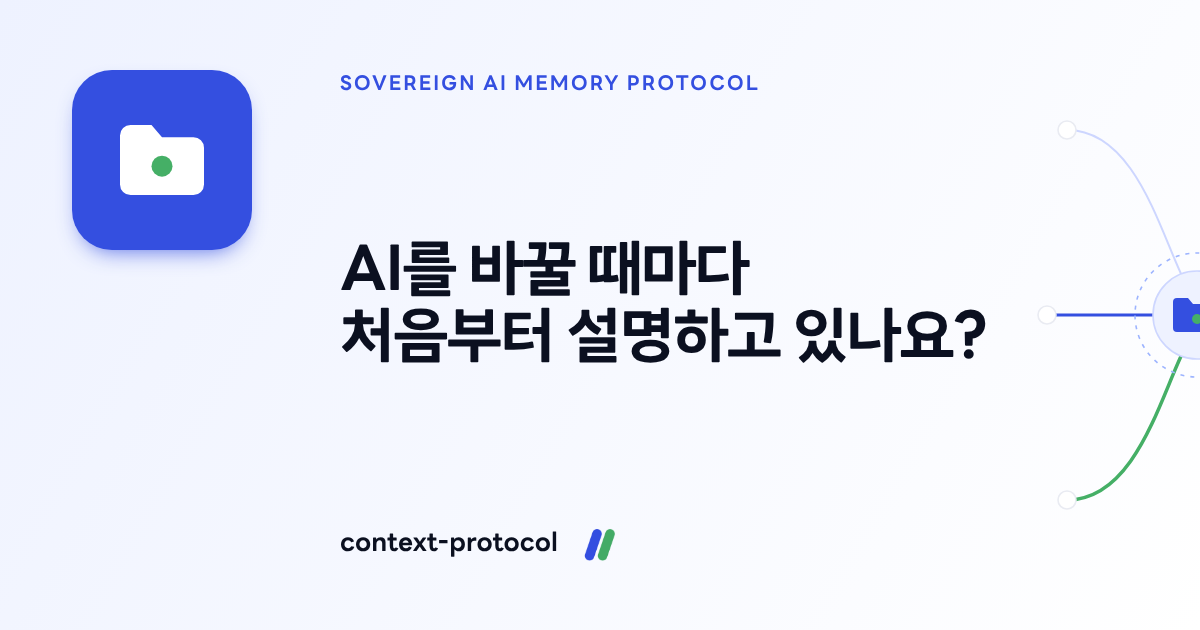
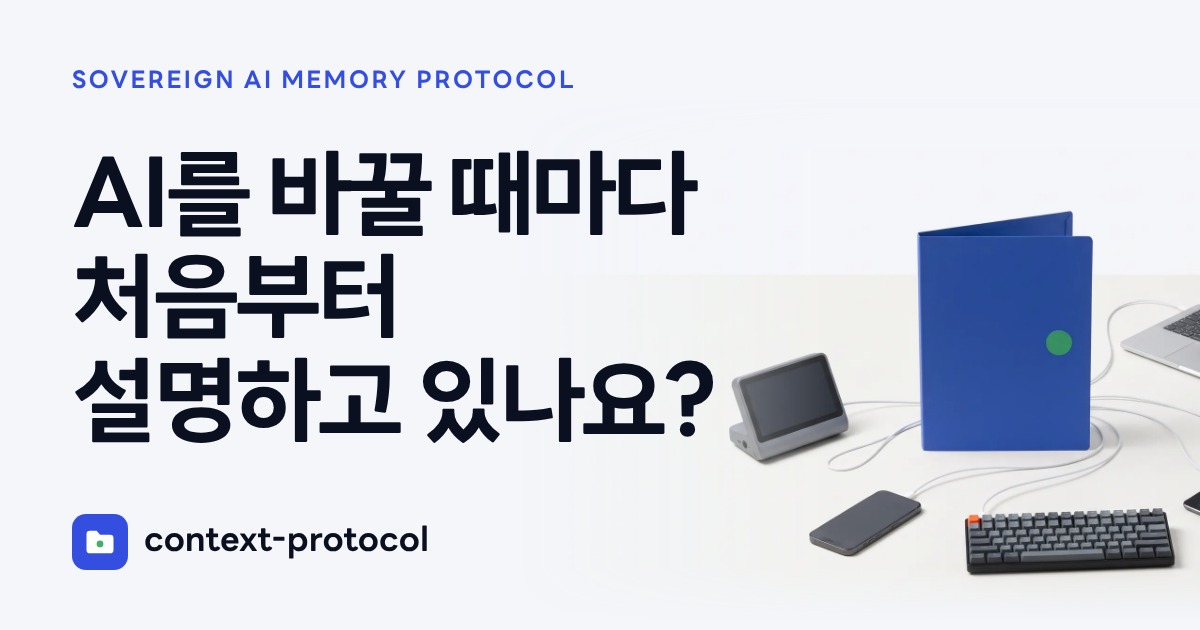
site: og 이미지를 썸네일에서도 읽히게 다시 만듦
Claude-Session: https://claude.ai/code/session_01GbwQAmrjeip5ADpbh5uN5D

Changed region(s): [[0.0308, 0.0905, 1.0, 0.9349], [0.0617, 0.8143, 0.5242, 0.9048], [0.6783, 0.7841, 0.7708, 0.9048]]

diff --git a/site-src/src/og.html b/site-src/src/og.html
@@ -1,39 +1,21 @@
 <!DOCTYPE html>
 <html lang="ko"><head><meta charset="utf-8"><link rel="stylesheet" href="style.css">
 <style>
-html,body{width:1200px;height:630px;margin:0;overflow:hidden;background:#fff}
-.og{position:relative;width:1200px;height:630px;background:var(--gradient-soft);display:grid;grid-template-columns:1fr 380px}
-.og .r{position:relative}
-.og .r svg{position:absolute;inset:40px 40px 40px 0;width:340px;height:550px}
-.og .l{padding:70px 40px 60px 340px;display:flex;flex-direction:column;justify-content:space-between}
-.og .l .eyebrow{margin:0;font-size:20px}
-.og h1{font-size:62px;white-space:nowrap;font-weight:700;letter-spacing:-.02em;line-height:1.08;color:#0b1020;margin:0}
-.og .f{display:flex;align-items:center;gap:16px;font-size:26px;font-weight:700}
-.og .f img{height:30px;width:auto}
-.og .f span{color:#5b6172;font-weight:400;font-size:22px}
-.og .mk{position:absolute;left:72px;top:70px;width:180px;height:180px;border-radius:40px;background:#344fe0;box-shadow:0 10px 22px -10px rgba(52,79,224,.85);display:grid;place-items:center}
+html,body{width:1200px;height:630px;margin:0;overflow:hidden;background:#f4f6fa}
+.og{position:relative;width:1200px;height:630px;overflow:hidden}
+.og .ph{position:absolute;right:-250px;top:96px;width:940px;height:auto;-webkit-mask-image:linear-gradient(90deg,transparent 0,#000 34%),linear-gradient(180deg,transparent 0,#000 10%,#000 90%,transparent 100%);-webkit-mask-composite:source-in}
+.og .t{position:absolute;left:72px;top:64px;bottom:60px;display:flex;flex-direction:column;justify-content:space-between}
+.og .eyebrow{margin:0;font-size:24px}
+.og h1{font-size:96px;font-weight:700;letter-spacing:-.03em;line-height:1.08;color:#0b1020;margin:0}
+.og .f{display:flex;align-items:center;gap:16px;margin:0;font-size:34px;font-weight:700;color:#0b1020}
+.og .mk{width:56px;height:56px;border-radius:14px;background:#344fe0;display:grid;place-items:center}
 </style></head><body>
 <div class="og">
-  <div class="l">
-    <div class="mk"><svg width="112" height="112" viewBox="0 0 64 64" aria-hidden="true"><path d="M8 18a6 6 0 0 1 6-6h12l6 7h18a6 6 0 0 1 6 6v21a6 6 0 0 1-6 6H14a6 6 0 0 1-6-6z" fill="#fff"/><circle cx="32" cy="35.5" r="6" fill="#45af66"/></svg></div>
+  <img class="ph" src="img/hero-devices.webp" alt="">
+  <div class="t">
     <p class="eyebrow">SOVEREIGN AI MEMORY PROTOCOL</p>
-    <h1>AI를 바꿀 때마다<br>처음부터 설명하고 있나요?</h1>
-    <p class="f">context-protocol <img src="proofer-mark.png" alt="" style="height:52px;mix-blend-mode:multiply"></p>
-  </div>
-  <div class="r">
-    <svg viewBox="0 0 340 550" aria-hidden="true">
-      <g fill="none" stroke="#cdd6ff" stroke-width="2">
-        <path d="M40 90 C 120 90, 140 230, 170 260"/><path d="M20 275 C 90 275, 110 275, 130 275"/><path d="M40 460 C 120 460, 140 320, 170 290"/>
-        <path d="M300 90 C 220 90, 200 230, 170 260"/><path d="M320 275 C 250 275, 230 275, 210 275"/><path d="M300 460 C 220 460, 200 320, 170 290"/>
-      </g>
-      <path d="M20 275 C 90 275, 110 275, 130 275" fill="none" stroke="#344fe0" stroke-width="3"/>
-      <path d="M40 460 C 120 460, 140 320, 170 290" fill="none" stroke="#45af66" stroke-width="3.5"/>
-      <circle cx="170" cy="275" r="62" fill="none" stroke="#9db4ff" stroke-dasharray="4 6" stroke-width="1.6"/>
-      <circle cx="170" cy="275" r="44" fill="#eef2ff" stroke="#cdd6ff" stroke-width="1.6"/>
-      <path d="M146 262a4 4 0 0 1 4-4h11l5 6h18a4 4 0 0 1 4 4v20a4 4 0 0 1-4 4h-34a4 4 0 0 1-4-4z" fill="#344fe0"/>
-      <circle cx="170" cy="279" r="5" fill="#45af66"/>
-      <g fill="#fff" stroke="#e9ebf2" stroke-width="1.6"><circle cx="40" cy="90" r="9"/><circle cx="20" cy="275" r="9"/><circle cx="40" cy="460" r="9"/><circle cx="300" cy="90" r="9"/><circle cx="320" cy="275" r="9"/><circle cx="300" cy="460" r="9"/></g>
-    </svg>
+    <h1>AI를 바꿀 때마다<br>처음부터<br>설명하고 있나요?</h1>
+    <p class="f"><span class="mk"><svg width="36" height="36" viewBox="0 0 64 64" aria-hidden="true"><path d="M8 18a6 6 0 0 1 6-6h12l6 7h18a6 6 0 0 1 6 6v21a6 6 0 0 1-6 6H14a6 6 0 0 1-6-6z" fill="#fff"/><circle cx="32" cy="35.5" r="6" fill="#45af66"/></svg></span>context-protocol</p>
   </div>
 </div>
 </body></html>

diff --git a/site/index.html b/site/index.html
@@ -16,7 +16,7 @@
 <meta property="og:url" content="https://context-protocol.proofer.tech/">
 <meta property="og:title" content="context-protocol - 소버린 AI 메모리 프로토콜">
 <meta property="og:description" content="모델은 바꿔 끼우고 기억은 내 폴더에 둡니다. 서로 다른 AI가 같은 기억을 쓰게 하는 워크스페이스 프로토콜.">
-<meta property="og:image" content="https://context-protocol.proofer.tech/og.png">
+<meta property="og:image" content="https://context-protocol.proofer.tech/og.png?v=431e196e26">
 <meta property="og:image:width" content="1200">
 <meta property="og:image:height" content="630">
 <meta property="og:image:alt" content="context-protocol. AI를 바꿀 때마다 처음부터 설명하고 있나요?">
